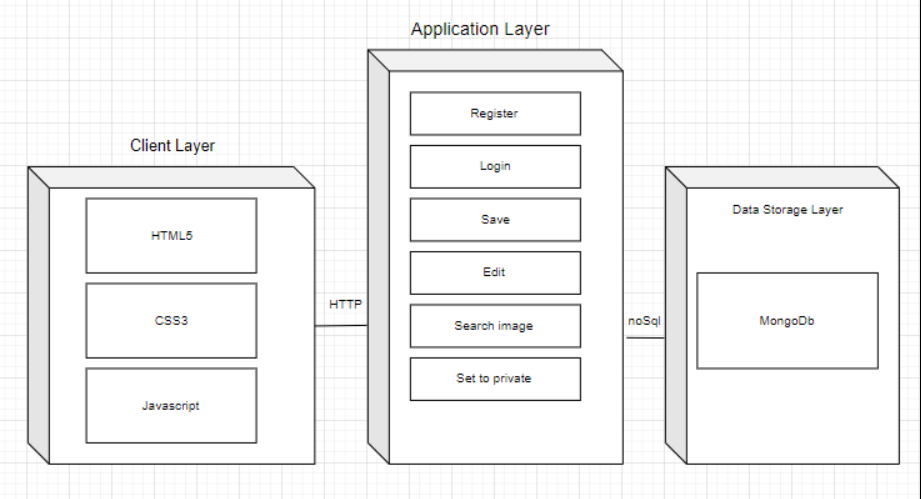
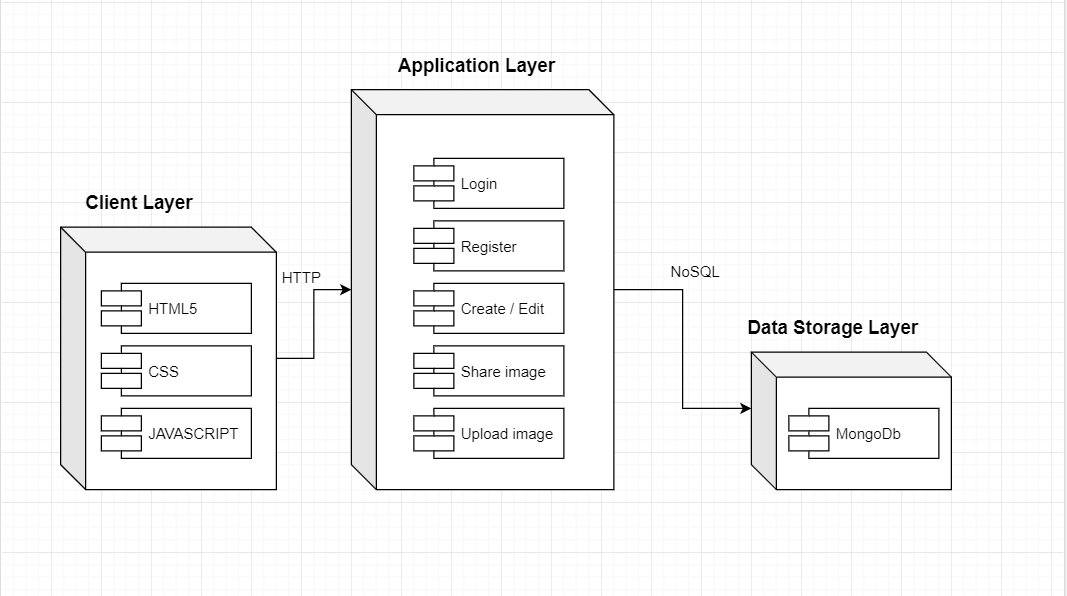
update the uml diagram, architecture, and use-case

Changed region(s): [[0.0, 0.0301, 1.0, 0.9319], [0.6688, 0.2405, 0.6992, 0.2705]]

diff --git a/documentatie/documentatie.html b/documentatie/documentatie.html
@@ -447,7 +447,7 @@
             save este destinat salvarii in baza de date ale unei noi entitati.
             Pentru aceasta actiune cand Utilizatorul apasa pe butonul
             <strong>SAVE</strong>, <strong>Clientul</strong> trimite prin metoda
-            <storng>POST</storng>, pe ruta <i>"http://BASE_URL/create"</i>,
+            <strong>POST</strong>, pe ruta <i>"http://BASE_URL/create"</i>,
             payload-ul care contine jwt-ul, userId, date, data, img (descris in
             <a
               href="https://app.swaggerhub.com/apis-docs/PuriceAlexandra/cards/2.0.0#/"
@@ -509,8 +509,8 @@
           <p>
             Aceasta pagina se afla pe ruta <i>"http://BASE_URL/#view/:id"</i> si
             este destinata vizualizarii cardurilor share-uite. Aceasta pagina
-            este de asemenea responsive, pentru ca imaginea sa poata fi vizualizat
-            si pe mobile.
+            este de asemenea responsive, pentru ca imaginea sa poata fi
+            vizualizat si pe mobile.
           </p>
           <figure typeof="sa:Image">
             <img src="images/view-responsive.PNG" alt="Responsive view page" />
@@ -536,8 +536,8 @@
           </figure>
         </div>
 
-        
         <p>TO DO: copy, paste, redo, undo</p>
+      </section>
 
       <h2>Structura proiectului</h2>
       <h3>Client</h3>
@@ -632,7 +632,7 @@
         <figure typeof="sa:Image">
           <img src="images/UML.PNG" alt="Diagrama UML" />
 
-          <figcaption>Diagrama UML</figcaption>
+          <figcaption>Fig.13 - Diagrama UML</figcaption>
         </figure>
       </section>
       <section>
@@ -640,7 +640,7 @@
         <figure typeof="sa:Image">
           <img src="images/use-case.PNG" alt="Diagrama Use-Case" />
 
-          <figcaption>Diagrama Use-Case</figcaption>
+          <figcaption>Fig. 14 - Diagrama Use-Case</figcaption>
         </figure>
       </section>
       <section>
@@ -651,7 +651,7 @@
             src="images//diagramaArhitecturala.PNG"
             alt="DiagramaArhitecturala"
           />
-          <figcaption>Diagrama Arhitecturală</figcaption>
+          <figcaption>Fig. 15 - Diagrama Arhitecturală</figcaption>
         </figure>
       </section>
       <section typeof="sa:Conclusion" id="conclusion">
